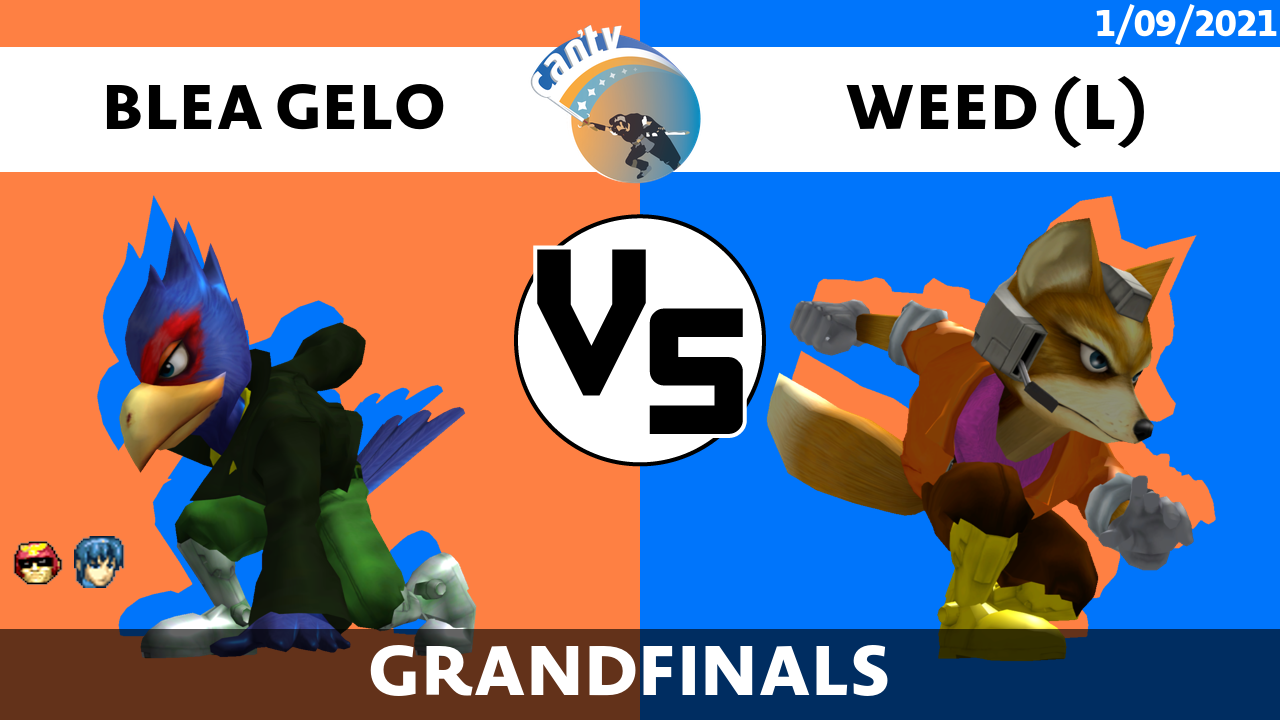
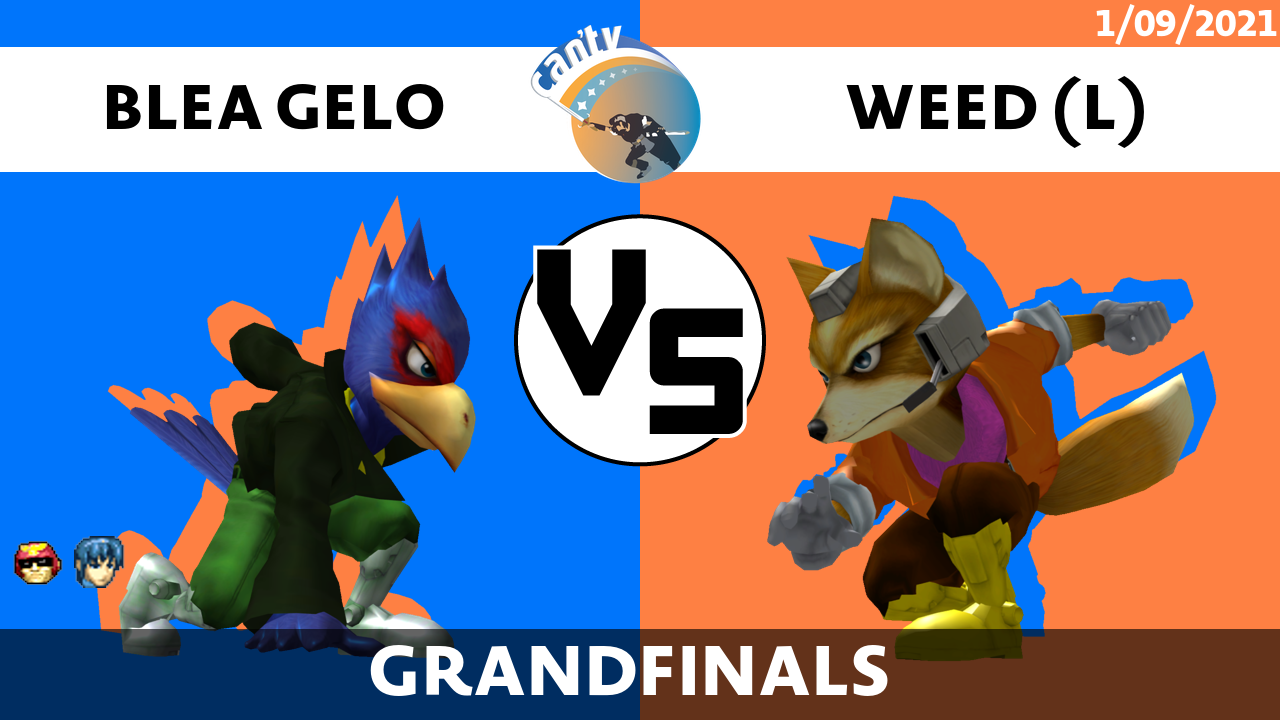
parametrizar colores

diff --git a/vaca.py b/vaca.py
@@ -1,8 +1,8 @@
+from pickletools import optimize
 from PIL import Image, ImageDraw, ImageOps
 from font import fit_text
 import os
 
-MAIN_COLORS = ((254, 128, 67), (0, 117, 251))
 CANVAS_SIZE = (1280, 720)
 LOGO_PATH = os.path.join("Thumbnail Generator Assets", "Design Elements", "Can'tv Logo.png")
 VS_PATH = os.path.join("Thumbnail Generator Assets", "Design Elements", "VS Text.png")
@@ -23,6 +23,7 @@ def generate_thumbnail(data):
     right_color = data["right_player"]["character"]["color"]
     right_pose = data["right_player"]["character"]["pose"]
     RIGHT_PATH = os.path.join("Thumbnail Generator Assets", right_name, f"{right_name} {right_color} Pose {right_pose}.png")
+    MAIN_COLORS = data["colors"]
 
     # Left Square
     shape = [(0, 0), (CANVAS_SIZE[0]//2, CANVAS_SIZE[1])]
@@ -107,27 +108,31 @@ def generate_thumbnail(data):
     
     return canvas
 
-"""data = {
-    "left_player": {
-        "name": "BLEA GELO",
-        "character": {
-            "name": "Falco",
-            "color": "Green",
-            "pose": 1,
-            "flip": False
+if __name__ == "__main__":
+    print("vaca")
+    data = {
+        "left_player": {
+            "name": "BLEA GELO",
+            "character": {
+                "name": "Falco",
+                "color": "Green",
+                "pose": 1,
+                "flip": False
+            },
+            "secondaries": ["Falcon", "Marth"]
         },
-        "secondaries": ["Falcon", "Marth"]
-    },
-    "right_player": {
-        "name": "WEED (L)",
-        "character": {
-            "name": "Fox",
-            "color": "Red",
-            "pose": 1,
-            "flip": False
+        "right_player": {
+            "name": "WEED (L)",
+            "character": {
+                "name": "Fox",
+                "color": "Red",
+                "pose": 1,
+                "flip": False
+            },
+            "secondaries": []
         },
-        "secondaries": []
-    },
-    "round": "GRANDFINALS",
-    "date": "1/09/2021"
-}"""
+        "round": "GRANDFINALS",
+        "date": "1/09/2021",
+        "colors": ((0, 117, 251), (254, 128, 67))
+    }
+    generate_thumbnail(data).save("sample.png", optimize=True)
